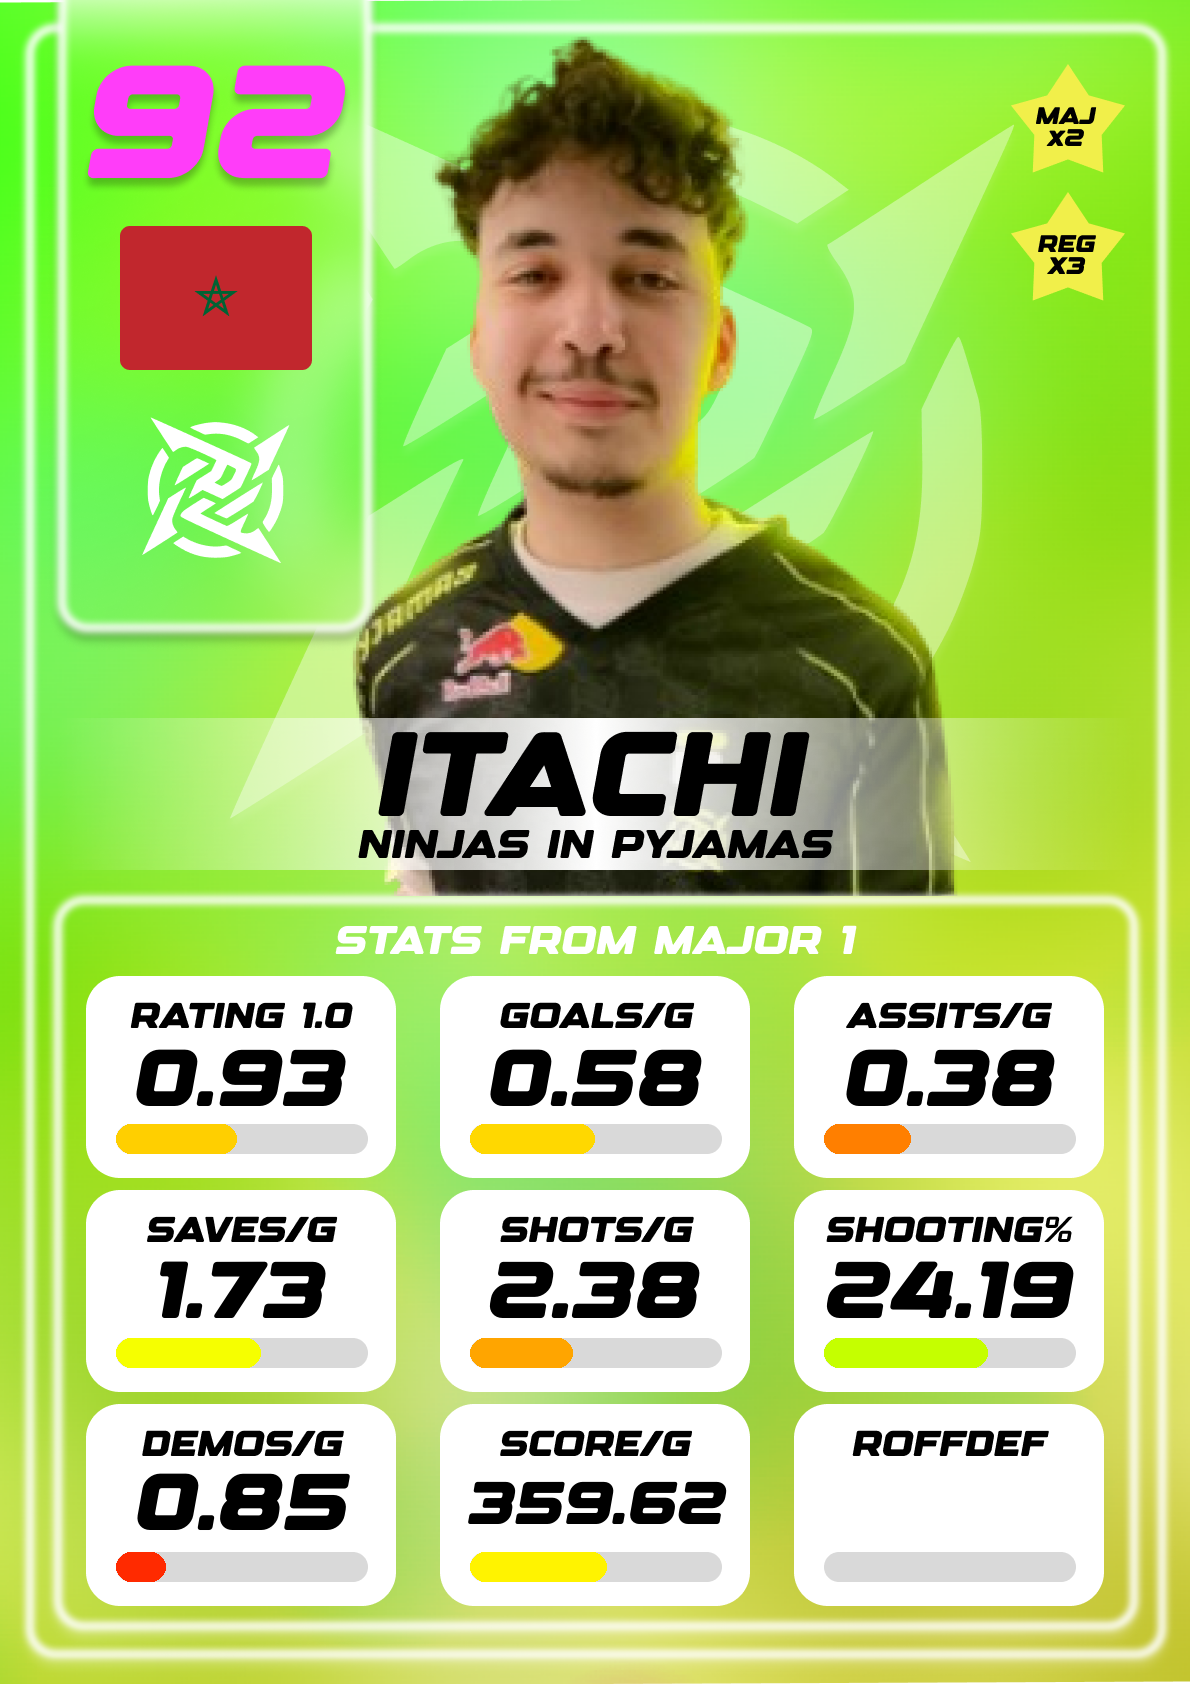
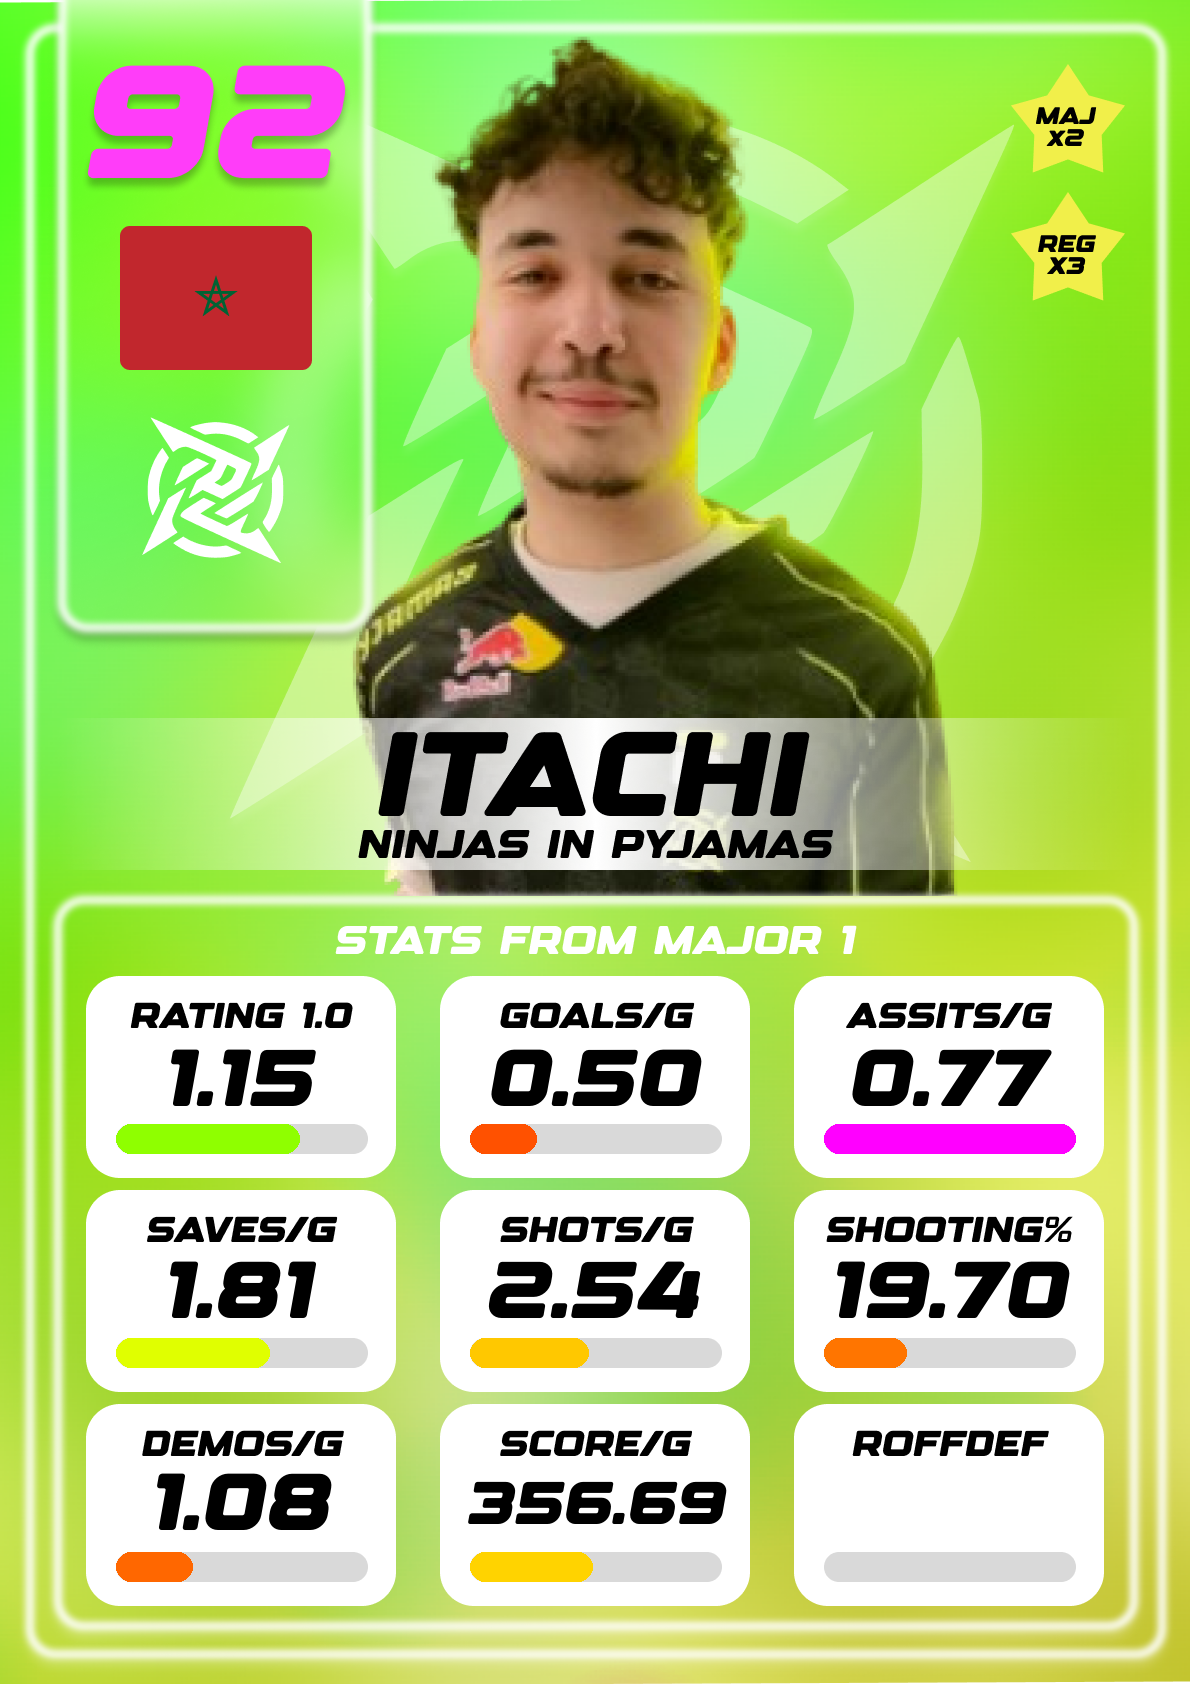
1

diff --git a/Cards/cardmaker.py b/Cards/cardmaker.py
@@ -401,7 +401,7 @@ def shooting(rating, value):
 
 def get_player_stats(player_name):
     # Open the CSV file and read its contents
-    with open('Stats/eu_open_2_bis.csv', 'r', newline='') as csvfile:
+    with open('Stats/processed-major1.csv', 'r', newline='') as csvfile:
         reader = csv.reader(csvfile)
         
         # Skip the header row
@@ -538,7 +538,7 @@ def demos(rating, value):
     demos_text_box(image,f"{value:.2f}")
     
 # Rating, r rGPG, GPG, rAss, Ass, rSaves, Saves, rShots, Shots, rShooting, Shooting% 
-playerstats = get_player_stats("Seikoo")
+playerstats = get_player_stats("Vatira.")
 print("INITIAL")
 print(playerstats)
 playerstats.pop(1)
